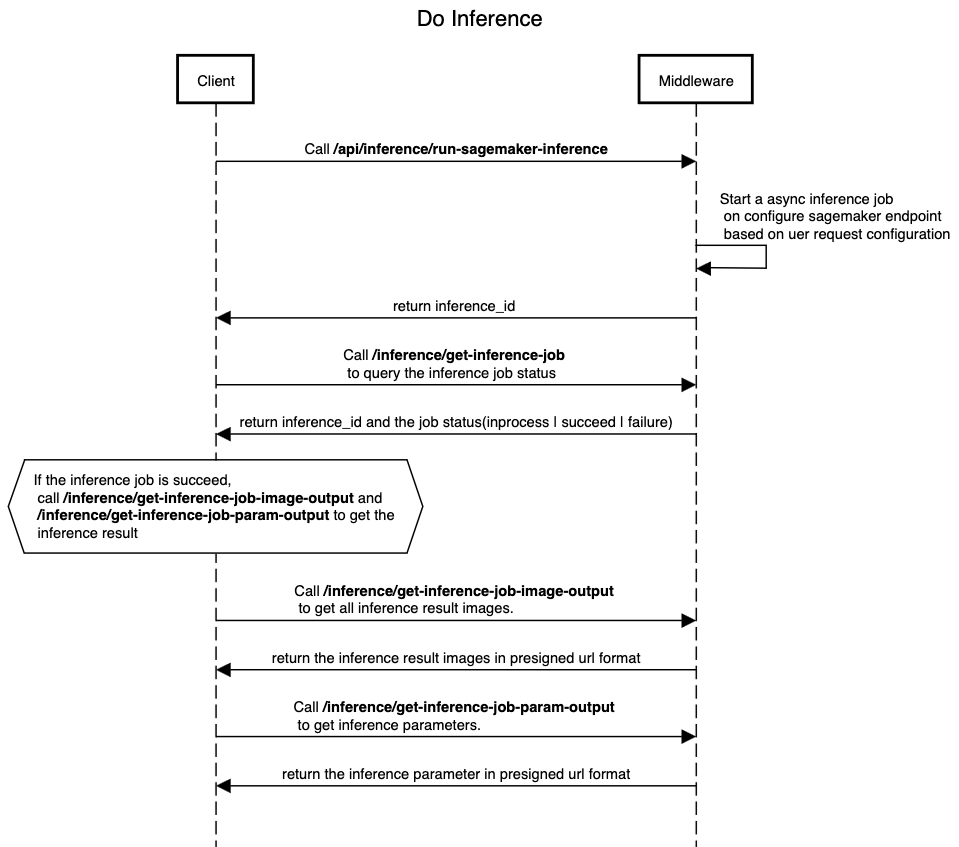
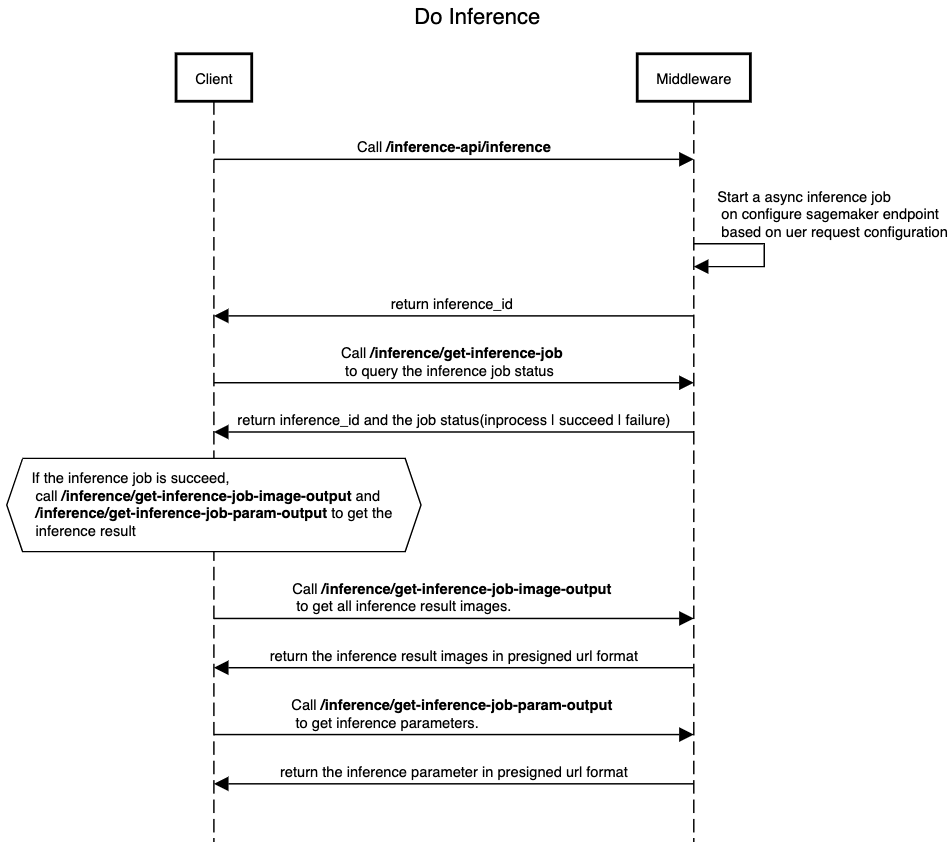
fix: update api doc

diff --git a/docs/en/developer-guide/api.md b/docs/en/developer-guide/api.md
@@ -17,7 +17,7 @@ headingLevel: 2
 <h1 id="stable-diffusion-train-and-deploy-api">Stable Diffusion AWS extension API</h1>
 
 # Overview
-This document describe all the api for Stable Diffusion AWS extension solution. This Solution contains two parts, one part is stable diffusion WEBUI extension which is gradio based client to provide a user-friendly interface, another part is called middle-ware which is resources deploy on AWS cloud, the middleware provide several API interfaces to let stable diffusion aws extension client to interact services on AWS cloud like Sagemaker and S3 to do the model update/training and inference operations. 
+This document describe all the api for Stable Diffusion AWS extension solution. This Solution contains two parts, one part is stable diffusion WebUI extension which is gradio based client to provide a user-friendly interface, another part is called middle-ware which is resources deploy on AWS cloud, the middleware provide several API interfaces to let stable diffusion aws extension client to interact services on AWS cloud like Sagemaker and S3 to do the model update/training and inference operations. 
 
 In order to support users who do not use stable diffusion aws extension. We provide this document to list all the API interfaces to help user understand how to call API methods to do the training or inference.
 
@@ -26,7 +26,8 @@ After user [deployed](../deployment/deployment.md) solution middleware cloudform
 
 **Base URLs:**
 
-* <a href="https://\<Your API Gateway ID\>.execute-api.\<Your AWS Account Region\>.amazonaws.com/prod">https://\<Your API Gateway ID\>.execute-api.\<Your AWS Account Region\>.amazonaws.com/prod</a>
+* https://API_Gateway_ID.execute-api.AWS_Account_Region.amazonaws.com/prod
+
 
 **Authentication**
 
@@ -62,9 +63,9 @@ Client->Middleware:Call /inference/get-endpoint-deployment-job \n to check wheth
 
 ## 4. Do Inference
 ![Do Inference](../images/do-inference.png)
-After Sagemaker endpoint is in inService status, you can call [/api/inference/run-sagemaker-inference](#apiinferencerun-sagemaker-inference) to do the txt2image or image2image inference. You specify the endpoint name in "sagemaker_endpoint" parameter in the post body of the request. Other required parameters are located in [/api/inference/run-sagemaker-inference](#apiinferencerun-sagemaker-inference).
+After Sagemaker endpoint is in inService status, you can call [/inference-api/inference](#inference-l2-api) to do the txt2image or image2image inference. You specify the endpoint name in "sagemaker_endpoint" parameter in the post body of the request. Other required parameters are located in [/inference-api/inference](#inference-l2-api).
 
-[/api/inference/run-sagemaker-inference](#apiinferencerun-sagemaker-inference) will return following json structure to client:
+[/inference-api/inference](#inference-l2-api) will return following json structure to client:
 ```json
 {
   "inference_id": "XXXXXXX",
@@ -94,7 +95,7 @@ Also Client can call [/inference/get-inference-job-param-output](#inferenceget-i
   
 title Do Inference
 
-Client->Middleware:Call **/api/inference/run-sagemaker-inference**
+Client->Middleware:Call **/inference-api/inference**
 Middleware->Middleware: Start a async inference job \n on configure sagemaker endpoint \n based on uer request configuration
 Middleware->Client: return inference_id 
 Client->Middleware:Call **/inference/get-inference-job** \n to query the inference job status
@@ -118,7 +119,7 @@ Middleware->Client: return the inference parameter in presigned url format
 | 3     | GET         | [/inference/get-inference-job](#inferenceget-inference-job)                                             | Retrieves details of a specific inference job. |
 | 4     | GET         | [/inference/get-inference-job-image-output](#inferenceget-inference-job-image-output)                   | Gets image output of a specific inference job.               |
 | 5     | GET         | [/inference/get-inference-job-param-output](#inferenceget-inference-job-param-output)                   | Gets parameter output of a specific inference job.                                     |
-| 6     | POST        | [/api/inference/run-sagemaker-inference](#apiinferencerun-sagemaker-inference)                          | Run sagemaker inference using default parameters                                       |
+| 6     | POST        | [/inference-api/inference](#inference-l2-api)                          | Run sagemaker inference using default parameters                                       |
 | 7     | POST        | [/inference/deploy-sagemaker-endpoint](#inferencedeploy-sagemaker-endpoint)                             | Deploys a SageMaker endpoint.                                                         |
 | 8     | POST        | [/inference/delete-sagemaker-endpoint](#inferencedelete-sagemaker-endpoint)                             | Deletes a SageMaker endpoint.                                                         |
 | 9     | GET         | [/inference/list-endpoint-deployment-jobs](#inferencelist-endpoint-deployment-jobs)                     | Lists all endpoint deployment jobs.                                                   |
@@ -216,9 +217,9 @@ This operation does not require authentication
 
 # /inference-api/inference
 
-<a id="opIdrun_sagemaker_inference_inference_run_sagemaker_inference_post"></a>
-
 Generate a new image from a text prompt.
+
+<a id="inference-l2-api"></a>
 
 ### **Code samples :**
 
@@ -238,13 +239,12 @@ body = {
       "v1-5-pruned-emaonly.safetensors"
     ]
   },
-  "sagemaker_endpoint": "infer-endpoint-cb821ea",
-  "task_type": "txt2img",
+  "sagemaker_endpoint_name": "infer-endpoint-cb821ea",
   "prompt": "a cute panda",
   "denoising_strength": 0.75
 }
 
-r = requests.post("https://<Your API Gateway ID>.execute-api.<Your AWS Account Region>.amazonaws.com/{basePath}/api/inference/run-sagemaker-inference", headers = headers, json = body)
+r = requests.post("https://<Your API Gateway ID>.execute-api.<Your AWS Account Region>.amazonaws.com/{basePath}/inference-api/inference", headers = headers, json = body)
 
 print(r.json())
 
@@ -260,8 +260,7 @@ const inputBody = '{
       "v1-5-pruned-emaonly.safetensors"
     ]
   },
-  "sagemaker_endpoint": "infer-endpoint-cb821ea",
-  "task_type": "txt2img",
+  "sagemaker_endpoint_name": "infer-endpoint-cb821ea",
   "prompt": "a cute panda",
   "denoising_strength": 0.75
 }';
@@ -271,7 +270,7 @@ const headers = {
   'x-api-key': 'API_TOKEN_VALUE'
 };
 
-fetch("https://<Your API Gateway ID>.execute-api.<Your AWS Account Region>.amazonaws.com/{basePath}/api/inference/run-sagemaker-inference",
+fetch("https://<Your API Gateway ID>.execute-api.<Your AWS Account Region>.amazonaws.com/{basePath}/inference-api/inference",
 {
   method: "POST",
   body: inputBody,
@@ -285,7 +284,7 @@ fetch("https://<Your API Gateway ID>.execute-api.<Your AWS Account Region>.amazo
 
 ```
 
-`POST /api/inference/run-sagemaker-inference`
+`POST /inference-api/inference`
 
 > Body parameter
 
@@ -297,14 +296,13 @@ fetch("https://<Your API Gateway ID>.execute-api.<Your AWS Account Region>.amazo
       "v1-5-pruned-emaonly.safetensors"
     ]
   },
-  "sagemaker_endpoint": "infer-endpoint-cb821ea",
-  "task_type": "txt2img",
+  "sagemaker_endpoint_name": "infer-endpoint-cb821ea",
   "prompt": "a cute panda",
   "denoising_strength": 0.75
 }
 ```
 
-<h3 id="run-sagemaker-inference-parameters">Parameters</h3>
+<h3 id="inference-api">Parameters</h3>
 
 > Parameter example
 
@@ -413,7 +411,7 @@ sagemaker_endpoint_name, task_type, prompt and Stable-diffusion are mandatory, o
 }
 ```
 
-<h3 id="run-sagemaker-inference-responses">Responses</h3>
+<h3 id="inference-api">Responses</h3>
 
 |Status|Meaning|Description|Schema|
 |---|---|---|---|

diff --git a/docs/zh/developer-guide/api.md b/docs/zh/developer-guide/api.md
@@ -17,7 +17,7 @@ headingLevel: 2
 <h1 id="stable-diffusion-train-and-deploy-api">Stable Diffusion AWS extension API</h1>
 
 # Overview
-This document describe all the api for Stable Diffusion AWS extension solution. This Solution contains two parts, one part is stable diffusion WEBUI extension which is gradio based client to provide a user-friendly interface, another part is called middle-ware which is resources deploy on AWS cloud, the middleware provide several API interfaces to let stable diffusion aws extension client to interact services on AWS cloud like Sagemaker and S3 to do the model update/training and inference operations. 
+This document describe all the api for Stable Diffusion AWS extension solution. This Solution contains two parts, one part is stable diffusion WebUI extension which is gradio based client to provide a user-friendly interface, another part is called middle-ware which is resources deploy on AWS cloud, the middleware provide several API interfaces to let stable diffusion aws extension client to interact services on AWS cloud like Sagemaker and S3 to do the model update/training and inference operations. 
 
 In order to support users who do not use stable diffusion aws extension. We provide this document to list all the API interfaces to help user understand how to call API methods to do the training or inference.
 
@@ -26,7 +26,8 @@ After user [deployed](../deployment/deployment.md) solution middleware cloudform
 
 **Base URLs:**
 
-* <a href="https://\<Your API Gateway ID\>.execute-api.\<Your AWS Account Region\>.amazonaws.com/prod">https://\<Your API Gateway ID\>.execute-api.\<Your AWS Account Region\>.amazonaws.com/prod</a>
+* https://API_Gateway_ID.execute-api.AWS_Account_Region.amazonaws.com/prod
+
 
 **Authentication**
 
@@ -62,9 +63,9 @@ Client->Middleware:Call /inference/get-endpoint-deployment-job \n to check wheth
 
 ## 4. Do Inference
 ![Do Inference](../images/do-inference.png)
-After Sagemaker endpoint is in inService status, you can call [/api/inference/run-sagemaker-inference](#apiinferencerun-sagemaker-inference) to do the txt2image or image2image inference. You specify the endpoint name in "sagemaker_endpoint" parameter in the post body of the request. Other required parameters are located in [/api/inference/run-sagemaker-inference](#apiinferencerun-sagemaker-inference).
+After Sagemaker endpoint is in inService status, you can call [/inference-api/inference](#inference-l2-api) to do the txt2image or image2image inference. You specify the endpoint name in "sagemaker_endpoint" parameter in the post body of the request. Other required parameters are located in [/inference-api/inference](#inference-l2-api).
 
-[/api/inference/run-sagemaker-inference](#apiinferencerun-sagemaker-inference) will return following json structure to client:
+[/inference-api/inference](#inference-l2-api) will return following json structure to client:
 ```json
 {
   "inference_id": "XXXXXXX",
@@ -94,7 +95,7 @@ Also Client can call [/inference/get-inference-job-param-output](#inferenceget-i
   
 title Do Inference
 
-Client->Middleware:Call **/api/inference/run-sagemaker-inference**
+Client->Middleware:Call **/inference-api/inference**
 Middleware->Middleware: Start a async inference job \n on configure sagemaker endpoint \n based on uer request configuration
 Middleware->Client: return inference_id 
 Client->Middleware:Call **/inference/get-inference-job** \n to query the inference job status
@@ -118,7 +119,7 @@ Middleware->Client: return the inference parameter in presigned url format
 | 3     | GET         | [/inference/get-inference-job](#inferenceget-inference-job)                                             | Retrieves details of a specific inference job. |
 | 4     | GET         | [/inference/get-inference-job-image-output](#inferenceget-inference-job-image-output)                   | Gets image output of a specific inference job.               |
 | 5     | GET         | [/inference/get-inference-job-param-output](#inferenceget-inference-job-param-output)                   | Gets parameter output of a specific inference job.                                     |
-| 6     | POST        | [/api/inference/run-sagemaker-inference](#apiinferencerun-sagemaker-inference)                          | Run sagemaker inference using default parameters                                       |
+| 6     | POST        | [/inference-api/inference](#inference-l2-api)                          | Run sagemaker inference using default parameters                                       |
 | 7     | POST        | [/inference/deploy-sagemaker-endpoint](#inferencedeploy-sagemaker-endpoint)                             | Deploys a SageMaker endpoint.                                                         |
 | 8     | POST        | [/inference/delete-sagemaker-endpoint](#inferencedelete-sagemaker-endpoint)                             | Deletes a SageMaker endpoint.                                                         |
 | 9     | GET         | [/inference/list-endpoint-deployment-jobs](#inferencelist-endpoint-deployment-jobs)                     | Lists all endpoint deployment jobs.                                                   |
@@ -216,9 +217,9 @@ This operation does not require authentication
 
 # /inference-api/inference
 
-<a id="opIdrun_sagemaker_inference_inference_run_sagemaker_inference_post"></a>
-
 Generate a new image from a text prompt.
+
+<a id="inference-l2-api"></a>
 
 ### **Code samples :**
 
@@ -238,13 +239,12 @@ body = {
       "v1-5-pruned-emaonly.safetensors"
     ]
   },
-  "sagemaker_endpoint": "infer-endpoint-cb821ea",
-  "task_type": "txt2img",
+  "sagemaker_endpoint_name": "infer-endpoint-cb821ea",
   "prompt": "a cute panda",
   "denoising_strength": 0.75
 }
 
-r = requests.post("https://<Your API Gateway ID>.execute-api.<Your AWS Account Region>.amazonaws.com/{basePath}/api/inference/run-sagemaker-inference", headers = headers, json = body)
+r = requests.post("https://<Your API Gateway ID>.execute-api.<Your AWS Account Region>.amazonaws.com/{basePath}/inference-api/inference", headers = headers, json = body)
 
 print(r.json())
 
@@ -260,8 +260,7 @@ const inputBody = '{
       "v1-5-pruned-emaonly.safetensors"
     ]
   },
-  "sagemaker_endpoint": "infer-endpoint-cb821ea",
-  "task_type": "txt2img",
+  "sagemaker_endpoint_name": "infer-endpoint-cb821ea",
   "prompt": "a cute panda",
   "denoising_strength": 0.75
 }';
@@ -271,7 +270,7 @@ const headers = {
   'x-api-key': 'API_TOKEN_VALUE'
 };
 
-fetch("https://<Your API Gateway ID>.execute-api.<Your AWS Account Region>.amazonaws.com/{basePath}/api/inference/run-sagemaker-inference",
+fetch("https://<Your API Gateway ID>.execute-api.<Your AWS Account Region>.amazonaws.com/{basePath}/inference-api/inference",
 {
   method: "POST",
   body: inputBody,
@@ -285,7 +284,7 @@ fetch("https://<Your API Gateway ID>.execute-api.<Your AWS Account Region>.amazo
 
 ```
 
-`POST /api/inference/run-sagemaker-inference`
+`POST /inference-api/inference`
 
 > Body parameter
 
@@ -297,14 +296,13 @@ fetch("https://<Your API Gateway ID>.execute-api.<Your AWS Account Region>.amazo
       "v1-5-pruned-emaonly.safetensors"
     ]
   },
-  "sagemaker_endpoint": "infer-endpoint-cb821ea",
-  "task_type": "txt2img",
+  "sagemaker_endpoint_name": "infer-endpoint-cb821ea",
   "prompt": "a cute panda",
   "denoising_strength": 0.75
 }
 ```
 
-<h3 id="run-sagemaker-inference-parameters">Parameters</h3>
+<h3 id="inference-api">Parameters</h3>
 
 > Parameter example
 
@@ -413,7 +411,7 @@ sagemaker_endpoint_name, task_type, prompt and Stable-diffusion are mandatory, o
 }
 ```
 
-<h3 id="run-sagemaker-inference-responses">Responses</h3>
+<h3 id="inference-api">Responses</h3>
 
 |Status|Meaning|Description|Schema|
 |---|---|---|---|
